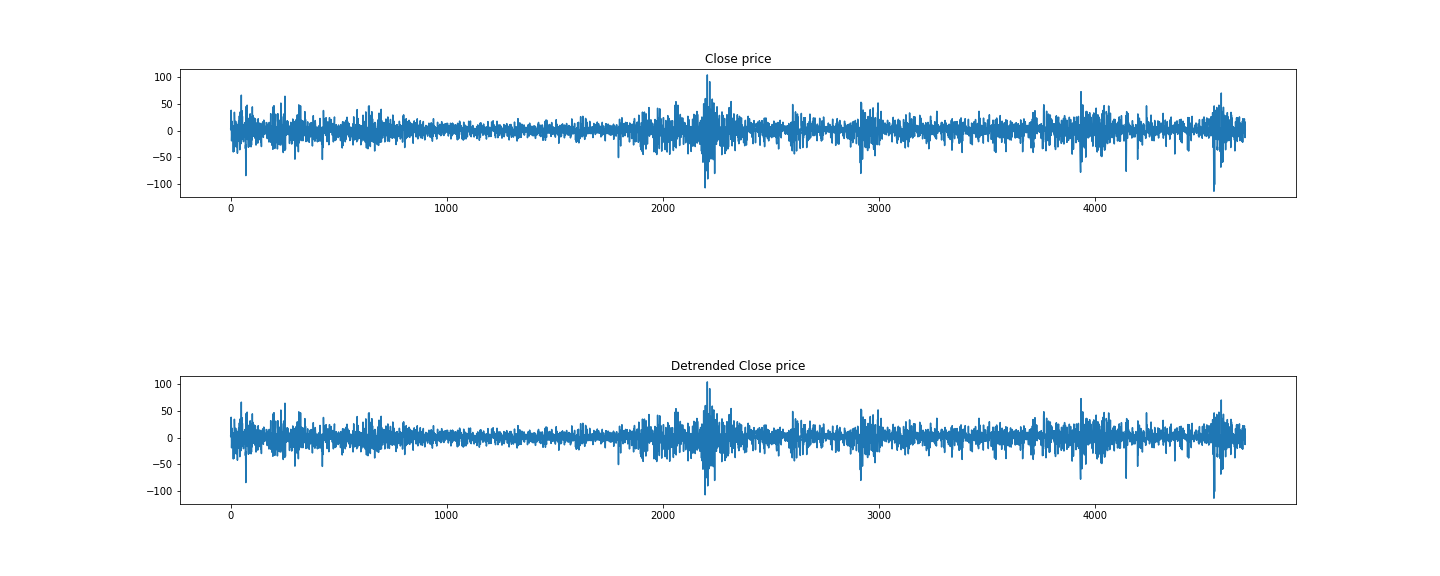
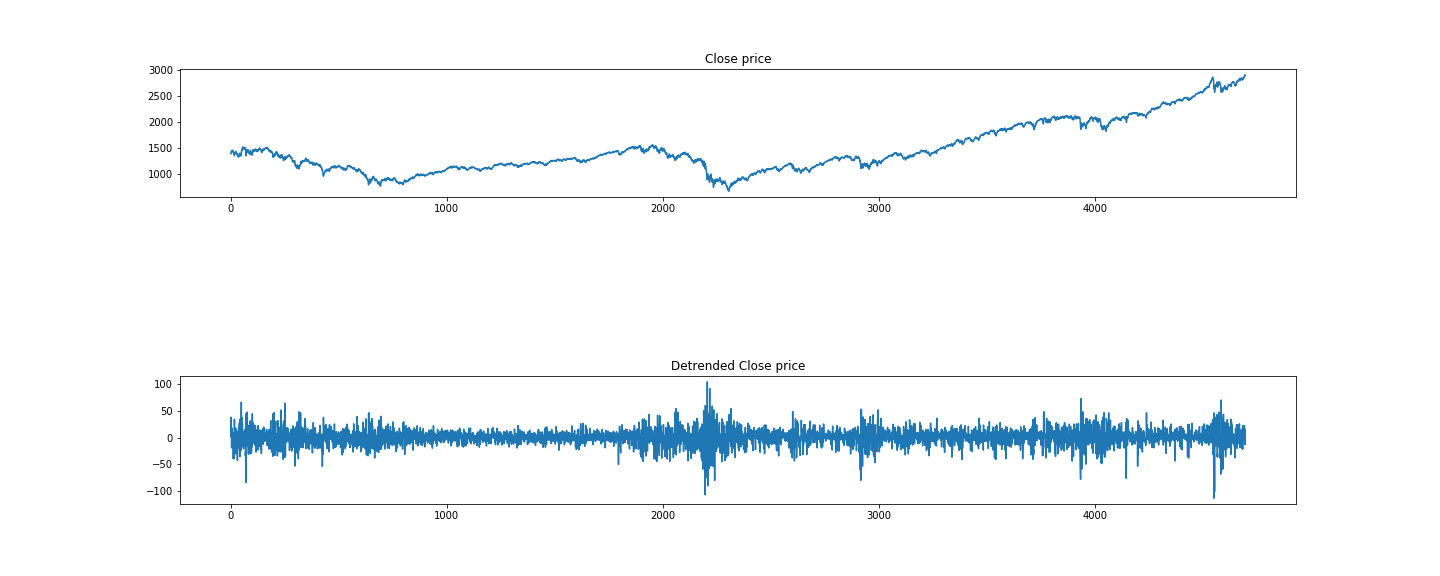
0

diff --git a/from scratch/Utils.py b/from scratch/Utils.py
@@ -48,7 +48,7 @@ def readData():
     for j in range(1, len(y)): 
         diff.append( y[j] - y[j-1])
     
-    y = diff
+    #y = diff
     print('Done...............')
     pyplot.figure(figsize=(20,8))
     pyplot.subplot(311)
@@ -63,52 +63,6 @@ def readData():
     print(X.shape)
     print(len(y))
     
-    
-    '''
-    for i in range(1, len(X)):
-        for j in X:
-        	X[j][i] = 5#X[i] - X[i - 1]
-        	
-    '''
-
-
-    #series = read_csv('sp500_original.csv', header=0, parse_dates=[0], index_col=0, squeeze=True)
-    # fit linear model
-    
-    #y = numpy.reshape(y, (len(y), 1))
-    '''
-    
-    X = X.values
-    #print(y[0])
-    #print('y shape: ', y.shape) #y.shape:  (4697, 5)
-    model = LinearRegression()
-    print(X.shape)
-    print(y.shape)
-    print('here---------------------------')
-    model.fit(X, y)
-    
-    # calculate trend
-    trend = model.predict(X)
-    
-    # plot trend
-    detrended = numpy.array([y[i]-trend[i] for i in range(0, len(X))])
-    
-    pyplot.figure(figsize=(20,8))
-    pyplot.subplot(311)
-    pyplot.title('Original Data')
-    pyplot.plot(X)
-    pyplot.subplot(312)
-    pyplot.title('Trend')
-    pyplot.plot(trend)
-    pyplot.subplot(313)
-    pyplot.title('Detrended Data')
-    pyplot.plot(detrended)
-    pyplot.savefig('Data')
-    pyplot.show()
-    
-    
-    return detrended
-    '''
     
     
 if __name__ == '__main__':
